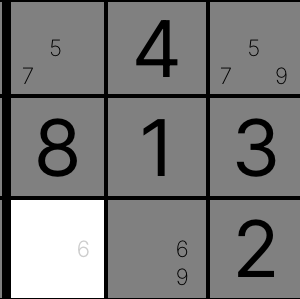
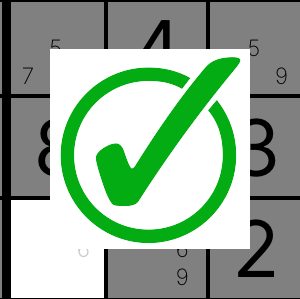
Lesson Card Page (#259)
* Added warning popup to locked lessons
* Updated learn page help message
* Updating to use react-native-paper default theme colors for cards
* Added checkmark to learned lesson card images
* Created bash script to paste checkmark svg onto card images
* Added test ids to lesson cards
* Created lessons test file, set learned strategies, and tested navigation to lessons page
* Added tests to verify that lesson cards have correct images
* Moved difficulty text colors to consts in HighlightColors and created rgb versions for tests
* Added testids to lesson card difficulty texts
* Added tests to verify lesson card difficulty text contents and colors
* Added tests to verify warning popup works as intended
* Added tests to click on lesson cards and verify they redirect to correct lesson
* Added test to verify that lesson help popup works
* Adding unique key
* adding unique key for drill strategies

---------

diff --git a/app/Components/Home/LessonPanel.tsx b/app/Components/Home/LessonPanel.tsx
@@ -1,4 +1,4 @@
-import React from "react";
+import React, { useState } from "react";
 import { ImageURISource, Image, TouchableOpacity, View } from "react-native";
 import { ActivityIndicator, Text, Card, useTheme } from "react-native-paper";
 import { PreferencesContext } from "../../Contexts/PreferencesContext";
@@ -23,6 +23,8 @@ import {
   difficulty,
   getDifficultyColor,
 } from "./Cards";
+import Alert from "react-native-awesome-alerts";
+import { rgba } from "polished";
 
 let lessonImages: ImageURISource[] = [
   require("./CardImages/SUDOKU_101.png"),
@@ -67,6 +69,11 @@ const LessonPanel = (props: any) => {
   const [availableLessons, setAvailableLessons] = React.useState([]);
   const [isLoading, setIsLoading] = React.useState(true);
 
+  const [lockedWarningVisible, setLockedWarningVisible] = useState(false);
+  const showLockedWarning = () => setLockedWarningVisible(true);
+  const hideLockedWarning = () => setLockedWarningVisible(false);
+  const [lockedLesson, setLockedLesson] = useState(-1);
+
   // setting lesson mode to offline
   let LESSON_MODE = getLessonMode.Offline;
   let getlessonArgs: lessonOfflineMode | lessonOnlineMode = {
@@ -97,12 +104,16 @@ const LessonPanel = (props: any) => {
     );
     for (let i = 0; i < availableLessons.length; i++) {
       let img: ImageURISource;
+      let id: string = i.toString();
       if (learnedLessons.includes(availableLessons[i])) {
         img = learnedLessonImages[i];
+        id = "learned" + id;
       } else if (lockedLessons.includes(availableLessons[i])) {
         img = lockedLessonImages[i];
+        id = "locked" + id;
       } else {
         img = lessonImages[i];
+        id = "lesson" + id;
       }
       let difficulty: difficulty;
       switch (availableLessons[i]) {
@@ -127,20 +138,27 @@ const LessonPanel = (props: any) => {
       }
       let difficultyColor: string = getDifficultyColor(difficulty);
       subArray.push(
-        <View style={{ width: CARD_WIDTH, padding: CARD_PADDING }}>
+        <View
+          key={availableLessons[i]}
+          testID={id}
+          style={{ width: CARD_WIDTH, padding: CARD_PADDING }}
+        >
           <TouchableOpacity
             onPress={() => {
-              navigation.navigate("Lesson", { params: availableLessons[i] });
+              if (lockedLessons.includes(availableLessons[i])) {
+                setLockedLesson(i);
+                showLockedWarning();
+              } else {
+                navigation.navigate("Lesson", { params: availableLessons[i] });
+              }
             }}
           >
-            <Card
-              mode="outlined"
-              theme={{ colors: { surface: "#025E73", outline: "#D9A05B" } }}
-            >
+            <Card mode="outlined">
               <Text variant="headlineMedium" style={{ alignSelf: "center" }}>
                 {formatOneLessonName(availableLessons[i])}
               </Text>
               <Text
+                testID={"difficulty"}
                 variant="headlineSmall"
                 style={{ alignSelf: "center" }}
                 theme={{ colors: { onSurface: difficultyColor } }}
@@ -187,6 +205,37 @@ const LessonPanel = (props: any) => {
             {subArray}
           </View>
         ))}
+        <Alert
+          show={lockedWarningVisible}
+          title="Warning"
+          message={
+            `You have selected a lesson that is locked. \n\n` +
+            `Locked lessons build on knowledge gained from previous lessons. \n\n` +
+            `It is recommended that you complete the previous lessons before attempting this one. \n\n` +
+            `Are you sure you want to continue?`
+          }
+          messageStyle={{ maxWidth: 500 }}
+          alertContainerStyle={{
+            backgroundColor: rgba(theme.colors.background, 0.3),
+          }}
+          showCancelButton={true}
+          showConfirmButton={true}
+          closeOnTouchOutside={false}
+          closeOnHardwareBackPress={false}
+          cancelText={"No"}
+          confirmText={"Yes"}
+          confirmButtonColor={theme.colors.primary}
+          onCancelPressed={() => {
+            hideLockedWarning();
+          }}
+          onConfirmPressed={() => {
+            hideLockedWarning();
+            navigation.navigate("Lesson", {
+              params: availableLessons[lockedLesson],
+            });
+          }}
+          overlayStyle={{ backgroundColor: "transparent" }}
+        />
       </View>
     );
   }

diff --git a/cypress/e2e/lessons.cy.ts b/cypress/e2e/lessons.cy.ts
@@ -1,0 +1,135 @@
+import {
+  EASY_COLOR_RGB,
+  HARD_COLOR_RGB,
+  INTERMEDIATE_COLOR_RGB,
+  VERY_EASY_COLOR_RGB,
+  VERY_HARD_COLOR_RGB,
+} from "../../app/Styling/HighlightColors";
+import {
+  LEARN_DRAWER_BUTTON,
+  LOCAL_STORAGE_SOME_LEARNED_LESSONS,
+  OPEN_DRAWER_NAVIGATION,
+} from "../global/testIds";
+
+describe("Sudoku lesson page functions", () => {
+  // Before tests insert learned lessons in local storage
+  beforeEach(() => {
+    window.localStorage.setItem(
+      "learned_lessons",
+      LOCAL_STORAGE_SOME_LEARNED_LESSONS
+    );
+    cy.visit("");
+    cy.get(OPEN_DRAWER_NAVIGATION).click();
+    cy.get(LEARN_DRAWER_BUTTON).click();
+  });
+
+  it("should display the lesson page", () => {
+    cy.contains("Learn new strategies");
+  });
+
+  it("should display learned lesson cards with checkmark images", () => {
+    for (let i: number = 0; i < 3; i++) {
+      cy.get("[data-testid=learned" + i.toString() + "]");
+    }
+  });
+
+  it("should display current lesson card with regular image", () => {
+    cy.get("[data-testid=lesson3]");
+  });
+
+  it("should display locked lesson cards with lock images", () => {
+    for (let i: number = 4; i < 8; i++) {
+      cy.get("[data-testid=locked" + i.toString() + "]");
+    }
+  });
+
+  it("should display correct difficulty text contents and colors", () => {
+    // Very Easy Learned Cards
+    for (let i: number = 0; i < 3; i++) {
+      cy.get("[data-testid=learned" + i.toString() + "]").within(() => {
+        cy.get("[data-testid=difficulty]").should("have.text", "Very Easy");
+        cy.get("[data-testid=difficulty]").should(
+          "have.css",
+          "color",
+          VERY_EASY_COLOR_RGB
+        );
+      });
+    }
+    // Very Easy Current Card
+    cy.get("[data-testid=lesson3]").within(() => {
+      cy.get("[data-testid=difficulty]").should("have.text", "Very Easy");
+      cy.get("[data-testid=difficulty]").should(
+        "have.css",
+        "color",
+        VERY_EASY_COLOR_RGB
+      );
+    });
+    // Easy Locked Card
+    cy.get("[data-testid=locked4]").within(() => {
+      cy.get("[data-testid=difficulty]").should("have.text", "Easy");
+      cy.get("[data-testid=difficulty]").should(
+        "have.css",
+        "color",
+        EASY_COLOR_RGB
+      );
+    });
+    // Intermediate Locked Card
+    cy.get("[data-testid=locked5]").within(() => {
+      cy.get("[data-testid=difficulty]").should("have.text", "Intermediate");
+      cy.get("[data-testid=difficulty]").should(
+        "have.css",
+        "color",
+        INTERMEDIATE_COLOR_RGB
+      );
+    });
+    // Hard Locked Card
+    cy.get("[data-testid=locked6]").within(() => {
+      cy.get("[data-testid=difficulty]").should("have.text", "Hard");
+      cy.get("[data-testid=difficulty]").should(
+        "have.css",
+        "color",
+        HARD_COLOR_RGB
+      );
+    });
+    // Very Hard Locked Card
+    cy.get("[data-testid=locked7]").within(() => {
+      cy.get("[data-testid=difficulty]").should("have.text", "Very Hard");
+      cy.get("[data-testid=difficulty]").should(
+        "have.css",
+        "color",
+        VERY_HARD_COLOR_RGB
+      );
+    });
+  });
+
+  it("should display warning popup when clicking on locked lesson card and go away when clicked no", () => {
+    cy.get("[data-testid=locked4]").click();
+    cy.contains("You have selected a lesson that is locked.");
+    cy.contains("div", /^No$/).click();
+    cy.contains("You have selected a lesson that is locked.").should(
+      "not.exist"
+    );
+  });
+
+  it("should display warning popup when clicking on locked lesson card and go to lesson when clicked yes", () => {
+    cy.get("[data-testid=locked4]").click();
+    cy.contains("You have selected a lesson that is locked.");
+    cy.contains("div", /^Yes$/).click();
+    cy.contains("Naked Set Lesson");
+  });
+
+  it("should click on learned lesson card and go to lesson", () => {
+    cy.get("[data-testid=learned0]").click();
+    cy.contains("Sudoku 101 Lesson");
+  });
+
+  it("should click on current lesson card and go to lesson", () => {
+    cy.get("[data-testid=lesson3]").click();
+    cy.contains("Simplify Notes Lesson");
+  });
+
+  it("should click on help button and display help popup", () => {
+    cy.contains("div", "?").click();
+    cy.contains("Learning Help");
+  });
+});

diff --git a/app/Styling/HighlightColors.ts b/app/Styling/HighlightColors.ts
@@ -10,6 +10,12 @@ export const NOTE_TEXT_COLOR = "#000000";
 export const NOT_HIGHLIGHTED_COLOR = "#FFFFFF";
 export const HINT_NOT_HIGHILGHTED_COLOR = "#808080";
 
+export const VERY_EASY_COLOR = "#4CBB17";
+export const EASY_COLOR = "#7CFC00";
+export const INTERMEDIATE_COLOR = "#FFFF00";
+export const HARD_COLOR = "#FFA500";
+export const VERY_HARD_COLOR = "#FF0000";
+
 // from https://stackoverflow.com/questions/5623838/rgb-to-hex-and-hex-to-rgb
 function hexToRGB(hex: string) {
   var result = /^#?([a-f\d]{2})([a-f\d]{2})([a-f\d]{2})$/i.exec(hex);
@@ -40,3 +46,9 @@ export const PLACE_NOTE_TEXT_COLOR_RGB = RGB(PLACE_NOTE_TEXT_COLOR);
 export const NOTE_TEXT_COLOR_RGB = RGB(NOTE_TEXT_COLOR);
 export const NOT_HIGHLIGHTED_COLOR_RGB = RGB(NOT_HIGHLIGHTED_COLOR);
 export const HINT_NOT_HIGHLIGHTED_COLOR_RGB = RGB(HINT_NOT_HIGHILGHTED_COLOR);
+
+export const VERY_EASY_COLOR_RGB = RGB(VERY_EASY_COLOR);
+export const EASY_COLOR_RGB = RGB(EASY_COLOR);
+export const INTERMEDIATE_COLOR_RGB = RGB(INTERMEDIATE_COLOR);
+export const HARD_COLOR_RGB = RGB(HARD_COLOR);
+export const VERY_HARD_COLOR_RGB = RGB(VERY_HARD_COLOR);

diff --git a/app/Styling/ThemeColors.tsx b/app/Styling/ThemeColors.tsx
@@ -25,6 +25,8 @@ const dTheme = {
     onSecondaryContainer: "#D9A05B",
     onTertiary: "#F2F2F2",
     onTertiaryContainer: "#F2F2F2",
+    outline: "#D9A05B",
+    surface: "#012F39FF",
     onSurface: "#F2F2F2",
     onSurfaceVariant: "#D9A05B",
   },
@@ -49,6 +51,8 @@ const d2Theme = {
     onSecondaryContainer: "#D9A05B",
     onTertiary: "#F2F2F2",
     onTertiaryContainer: "#F2F2F2",
+    outline: "#D9A05B",
+    surface: "#012F39FF",
     onSurface: "#F2F2F2",
     onSurfaceVariant: "#D9A05B",
   },
@@ -73,6 +77,8 @@ export const l2Theme = {
     onSecondaryContainer: "#F2F2F2",
     onTertiary: "#F2F2F2",
     onTertiaryContainer: "#F2F2F2",
+    outline: "#D9A05B",
+    surface: "#012F39FF",
     onSurface: "#F2F2F2",
     onSurfaceVariant: "#025E73",
   },
@@ -98,6 +104,8 @@ export const lTheme = {
     onSecondaryContainer: "#F2F2F2",
     onTertiary: "#F2F2F2",
     onTertiaryContainer: "#F2F2F2",
+    outline: "#D9A05B",
+    surface: "#012F39FF",
     onSurface: "#F2F2F2",
     onSurfaceVariant: "#025E73",
   },

diff --git a/app/Pages/LearnPage.tsx b/app/Pages/LearnPage.tsx
@@ -108,10 +108,8 @@ const LearnPage = () => {
           show={learnHelpVisible}
           title="Learning Help"
           message={
-            `Select a strategy to learn by clicking on the lesson button that is not greyed out.\n\n` +
-            `Lessons ensure that you will not encounter Sudoku puzzles with strategies you are unfamiliar with.\n\n` +
-            `As you learn, more features of the app will be unlocked!\n\n` +
-            `Lessons can only be completed in a set order, from left to right, top to bottom. \n\n` +
+            `Select a strategy to learn by clicking on a lesson card.\n\n` +
+            `It is recommended you do unlocked lessons first as locked lessons build upon the knowledge gained from prior ones.\n\n` +
             `Strategies you have already learned will be greyed out, but you will still have access to them.`
           }
           messageStyle={{ maxWidth: 500 }}

diff --git a/app/Components/Home/Cards.ts b/app/Components/Home/Cards.ts
@@ -1,3 +1,11 @@
+import {
+  EASY_COLOR,
+  HARD_COLOR,
+  INTERMEDIATE_COLOR,
+  VERY_EASY_COLOR,
+  VERY_HARD_COLOR,
+} from "../../Styling/HighlightColors";
+
 export const CARD_WIDTH: number = 300;
 const CARD_HEIGHT: number = 600;
 export const CARD_PADDING: number = 20;
@@ -32,14 +40,14 @@ export type difficulty =
 export function getDifficultyColor(difficulty: difficulty): string {
   switch (difficulty) {
     case "Very Easy":
-      return "#4CBB17";
+      return VERY_EASY_COLOR;
     case "Easy":
-      return "#7CFC00";
+      return EASY_COLOR;
     case "Intermediate":
-      return "#FFFF00";
+      return INTERMEDIATE_COLOR;
     case "Hard":
-      return "#FFA500";
+      return HARD_COLOR;
     default:
-      return "#FF0000";
+      return VERY_HARD_COLOR;
   }
 }

diff --git a/app/Components/Home/DrillPanel.tsx b/app/Components/Home/DrillPanel.tsx
@@ -85,6 +85,7 @@ const DrillPanel = (props: any) => {
     let difficultyColor: string = getDifficultyColor(difficulty);
     subArray.push(
       <View
+        key={drillStrategies[i]}
         style={{
           width: CARD_WIDTH,
           padding: CARD_PADDING,
@@ -97,10 +98,7 @@ const DrillPanel = (props: any) => {
             });
           }}
         >
-          <Card
-            mode="outlined"
-            theme={{ colors: { surface: "#025E73", outline: "#D9A05B" } }}
-          >
+          <Card mode="outlined">
             <Text variant="headlineMedium" style={{ alignSelf: "center" }}>
               {toTitle(drillStrategies[i])}
             </Text>

diff --git a/cypress/global/testIds.ts b/cypress/global/testIds.ts
@@ -5,8 +5,11 @@ export const ACTIVE_GAME_TWO =
 
 export const LOCAL_STORAGE_ALL_LEARNED_LESSONS =
   '["SUDOKU_101","AMEND_NOTES","NAKED_SINGLE","SIMPLIFY_NOTES","NAKED_SET","HIDDEN_SINGLE","HIDDEN_SET","POINTING_SET"]';
+export const LOCAL_STORAGE_SOME_LEARNED_LESSONS =
+  '["SUDOKU_101","AMEND_NOTES","NAKED_SINGLE"]';
 
 export const PLAY_DRAWER_BUTTON = "[data-testid=PlayButton]";
+export const LEARN_DRAWER_BUTTON = "[data-testid=LearnButton]";
 export const TOGGLE_NOTE_MODE_BUTTON = "[data-testid=toggleNoteModeButton]";
 export const ERASE_BUTTON = "[data-testid=eraseButton]";
 export const SUDOKU_BOARD = "[data-testid=sudokuBoard]";
